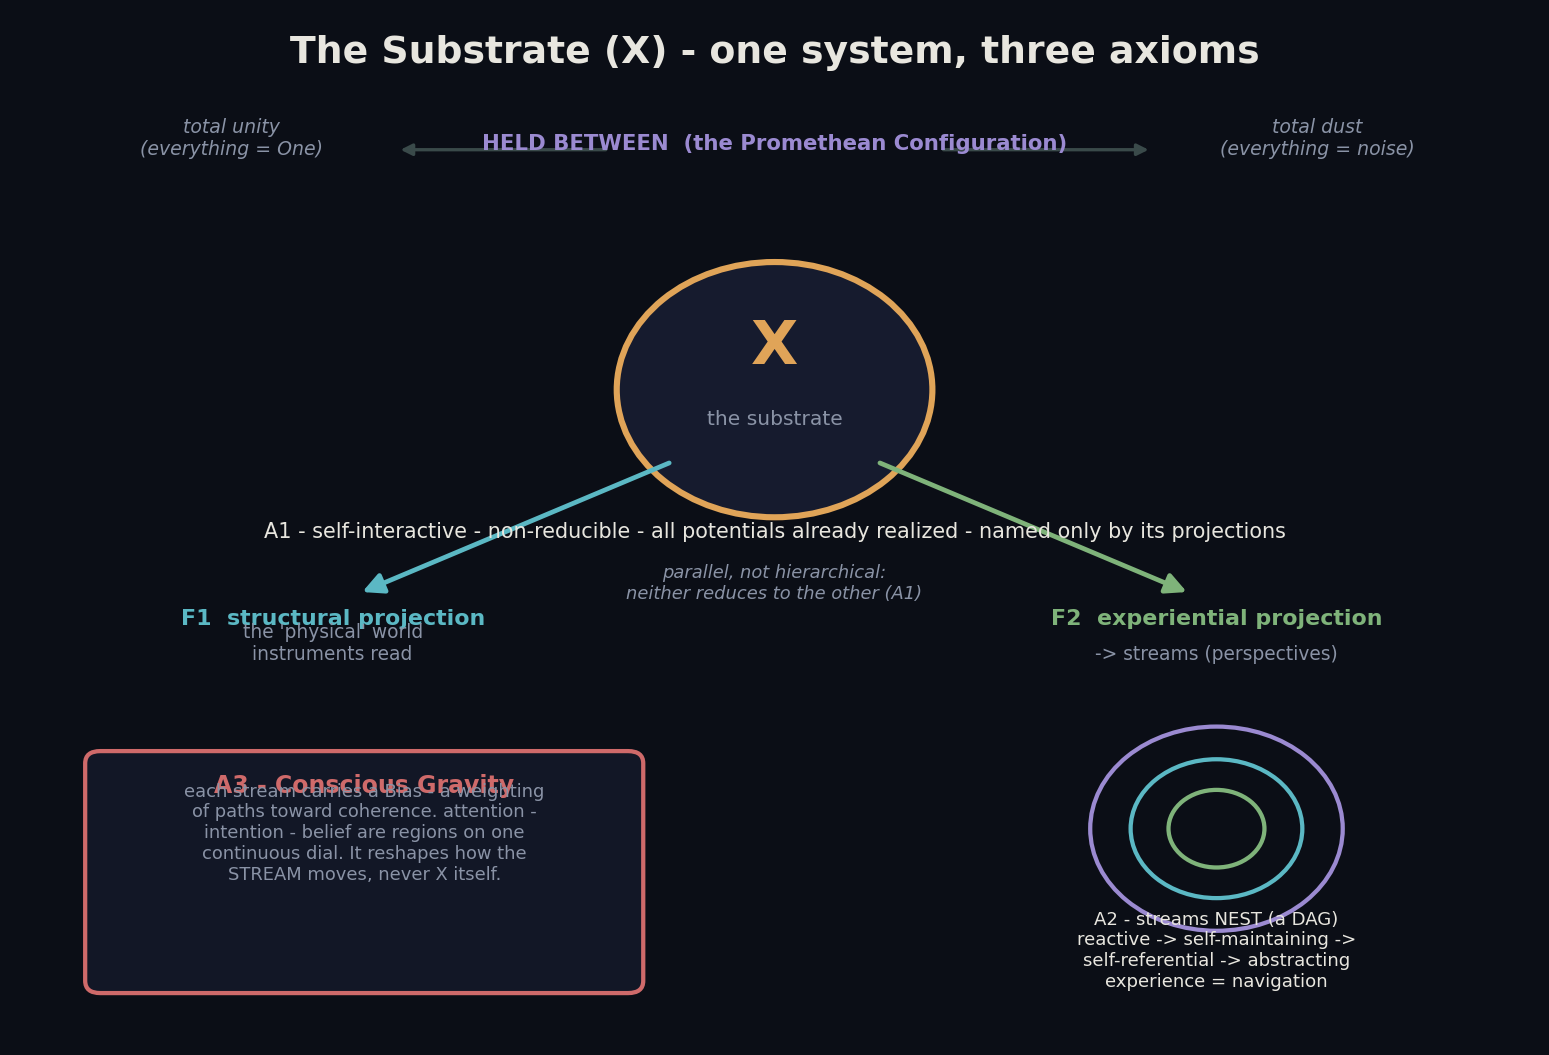
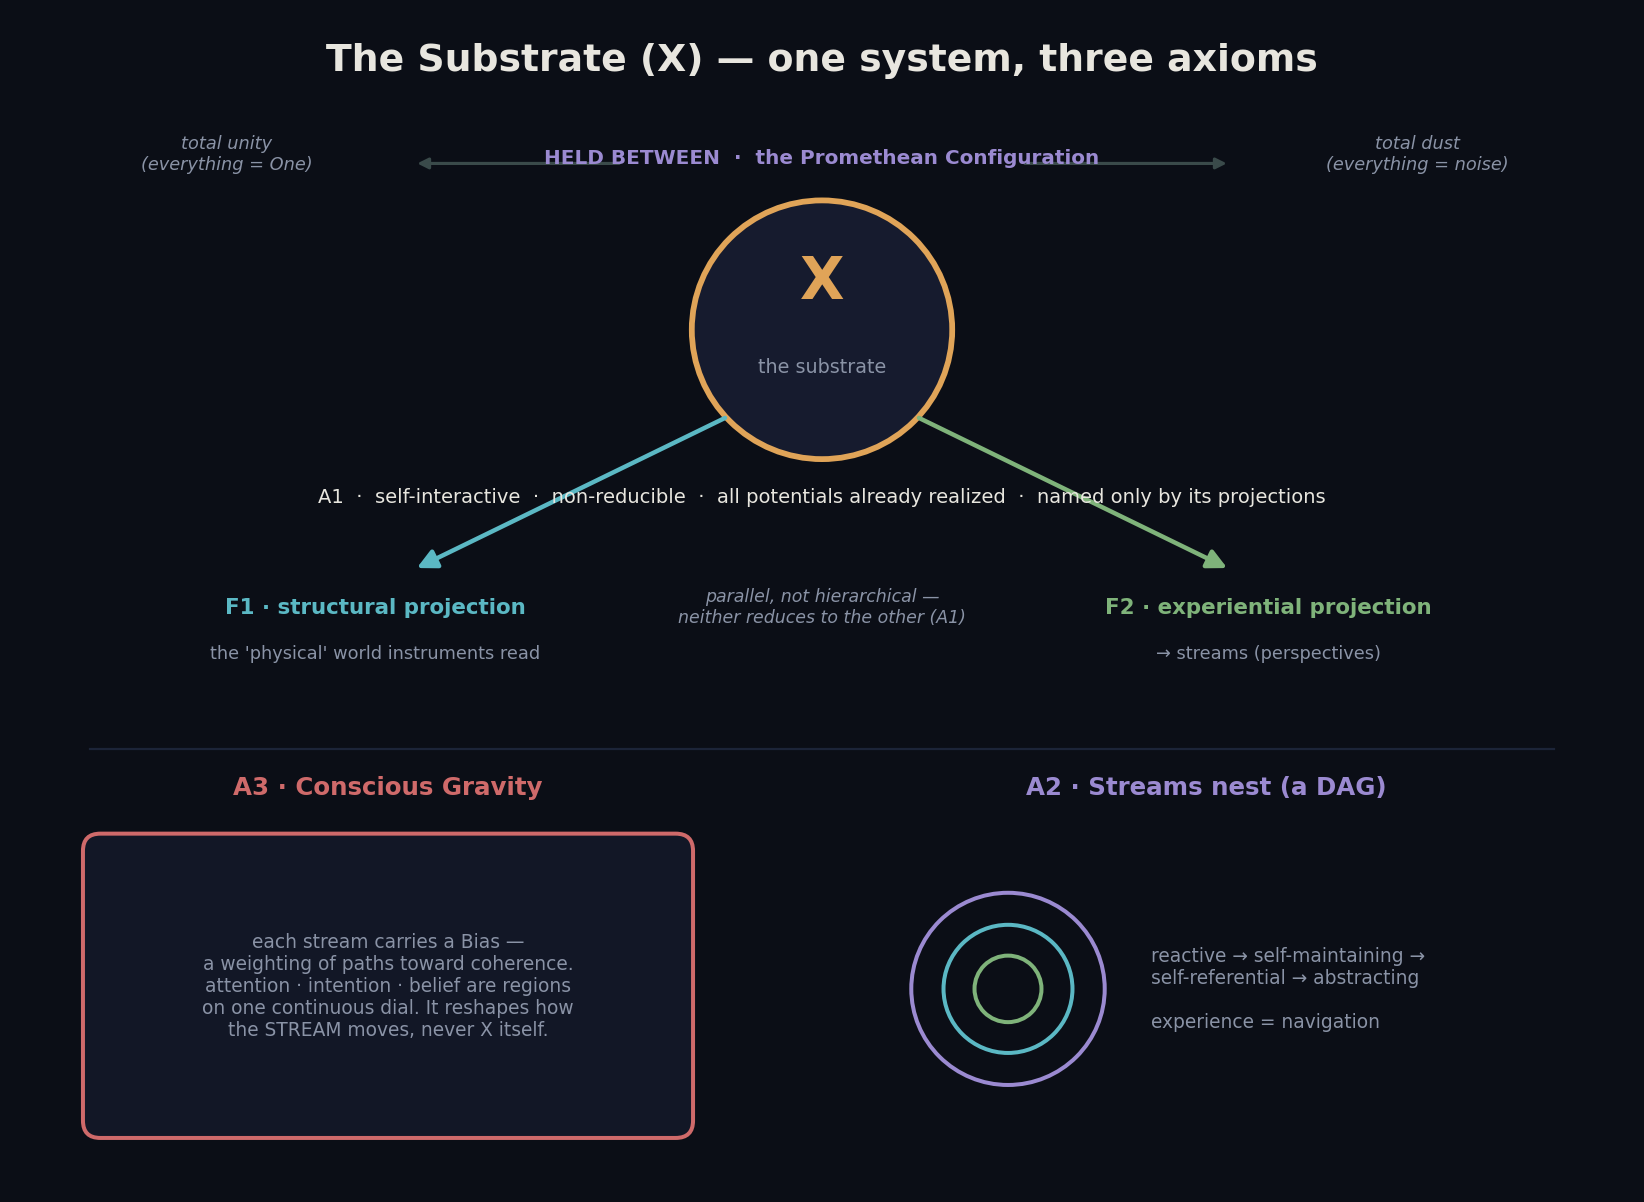
Where We Stand — rebuild Fig 6 (Substrate): fix A3 title/body + A2 label/circle overlaps
Clayton flagged real overlaps (not cache): A3 'Conscious Gravity' title was on top of its body text; A2 streams-label collided with the circles. Rebuilt with titles ABOVE their boxes and the A2 text BESIDE the circles — generous spacing, no collisions.

diff --git a/Technical-Work/Coherent-Stream/papers/where-we-stand-assets/_gen_fig6.py b/Technical-Work/Coherent-Stream/papers/where-we-stand-assets/_gen_fig6.py
@@ -1,0 +1,52 @@
+import matplotlib.pyplot as plt, os
+from matplotlib.patches import FancyBboxPatch, FancyArrowPatch, Circle
+plt.rcParams.update({"font.family": "DejaVu Sans"})
+BG="#0b0e16"; INK="#e8e6df"; MUTE="#8a93a6"; DIM="#3a4a4a"
+AMBER="#e0a458"; CYAN="#5bb8c4"; ROSE="#cf6a6a"; GREEN="#7fb37a"; VIOLET="#9b8ad1"
+OUT="where-we-stand-assets"
+
+fig,ax=plt.subplots(figsize=(13,9.5),dpi=160); fig.patch.set_facecolor(BG); ax.set_facecolor(BG)
+ax.set_xlim(0,13); ax.set_ylim(0,9.5); ax.axis("off")
+
+# title + Promethean bounds
+ax.text(6.5,9.05,"The Substrate (X) — one system, three axioms",ha="center",color=INK,fontsize=17,weight="bold")
+ax.text(1.7,8.25,"total unity\n(everything = One)",ha="center",color=MUTE,fontsize=8.0,style="italic")
+ax.text(11.3,8.25,"total dust\n(everything = noise)",ha="center",color=MUTE,fontsize=8.0,style="italic")
+ax.annotate("",xy=(3.2,8.3),xytext=(4.9,8.3),arrowprops=dict(arrowstyle="-|>",color=DIM,lw=1.4))
+ax.annotate("",xy=(9.8,8.3),xytext=(8.1,8.3),arrowprops=dict(arrowstyle="-|>",color=DIM,lw=1.4))
+ax.text(6.5,8.3,"HELD BETWEEN  ·  the Promethean Configuration",ha="center",color=VIOLET,fontsize=9.0,weight="bold")
+
+# X core
+ax.add_patch(Circle((6.5,6.95),1.05,fc="#161b2e",ec=AMBER,lw=2.6))
+ax.text(6.5,7.2,"X",ha="center",color=AMBER,fontsize=26,weight="bold")
+ax.text(6.5,6.6,"the substrate",ha="center",color=MUTE,fontsize=8.6)
+ax.text(6.5,5.55,"A1  ·  self-interactive  ·  non-reducible  ·  all potentials already realized  ·  named only by its projections",
+        ha="center",color=INK,fontsize=8.8)
+
+# projections F1 / F2
+ax.add_patch(FancyArrowPatch((5.75,6.25),(3.2,5.0),arrowstyle="-|>",mutation_scale=18,color=CYAN,lw=2.0))
+ax.add_patch(FancyArrowPatch((7.25,6.25),(9.8,5.0),arrowstyle="-|>",mutation_scale=18,color=GREEN,lw=2.0))
+ax.text(2.9,4.65,"F1 · structural projection",ha="center",color=CYAN,fontsize=9.6,weight="bold")
+ax.text(2.9,4.28,"the 'physical' world instruments read",ha="center",color=MUTE,fontsize=8.0)
+ax.text(10.1,4.65,"F2 · experiential projection",ha="center",color=GREEN,fontsize=9.6,weight="bold")
+ax.text(10.1,4.28,"→ streams (perspectives)",ha="center",color=MUTE,fontsize=8.0)
+ax.text(6.5,4.7,"parallel, not hierarchical —\nneither reduces to the other (A1)",ha="center",va="center",color=MUTE,fontsize=7.8,style="italic")
+
+# divider
+ax.plot([0.6,12.4],[3.55,3.55],color="#1c2438",lw=1.0)
+
+# --- A3 (bottom-left): title ABOVE the box, body alone inside ---
+ax.text(3.0,3.18,"A3 · Conscious Gravity",ha="center",color=ROSE,fontsize=11,weight="bold")
+ax.add_patch(FancyBboxPatch((0.6,0.45),4.8,2.35,boxstyle="round,pad=0.06,rounding_size=0.14",fc="#121726",ec=ROSE,lw=1.8))
+ax.text(3.0,1.62,"each stream carries a Bias —\na weighting of paths toward coherence.\nattention · intention · belief are regions\non one continuous dial. It reshapes how\nthe STREAM moves, never X itself.",
+        ha="center",va="center",color=MUTE,fontsize=8.4)
+
+# --- A2 (bottom-right): title above; circles on the left of the zone, text to the right ---
+ax.text(9.6,3.18,"A2 · Streams nest (a DAG)",ha="center",color=VIOLET,fontsize=11,weight="bold")
+for r,c in [(0.78,VIOLET),(0.52,CYAN),(0.27,GREEN)]:
+    ax.add_patch(Circle((8.0,1.6),r,fc="none",ec=c,lw=1.8))
+ax.text(9.15,1.6,"reactive → self-maintaining →\nself-referential → abstracting\n\nexperience = navigation",
+        ha="left",va="center",color=MUTE,fontsize=8.4)
+
+plt.savefig(f"{OUT}/fig6-substrate.png",facecolor=BG,bbox_inches="tight"); plt.close()
+print("fig6 rebuilt:", os.path.exists(f"{OUT}/fig6-substrate.png"))
